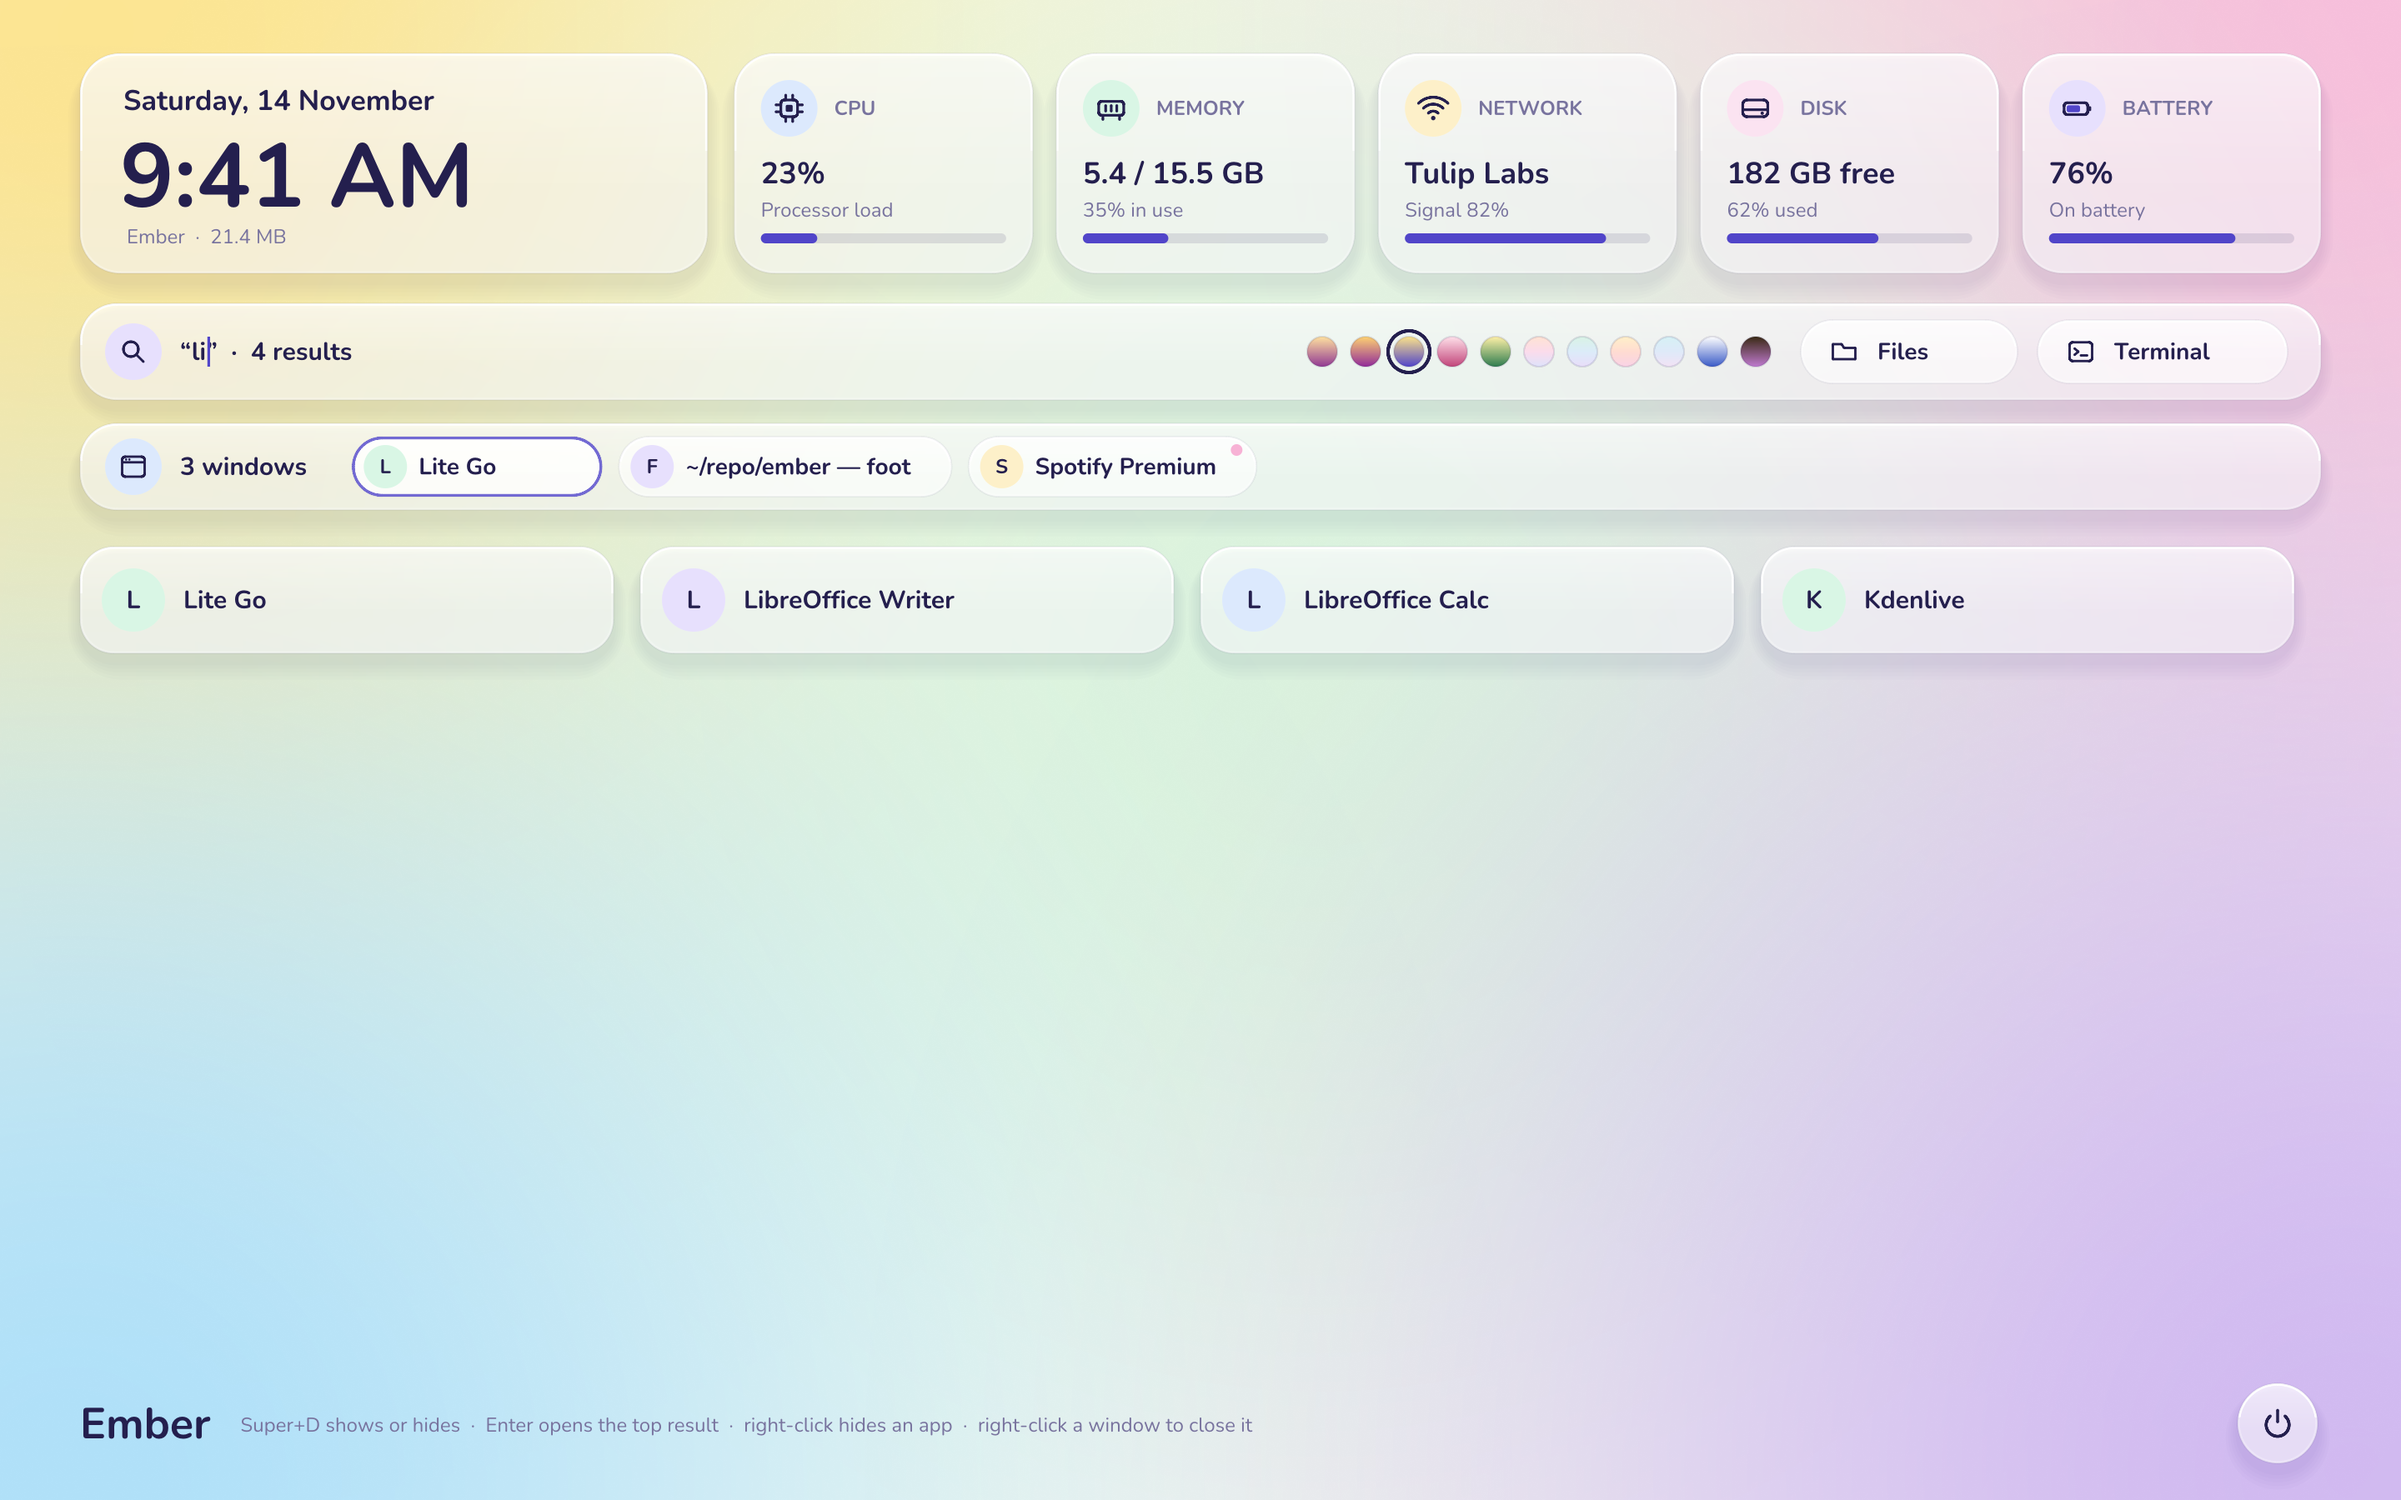
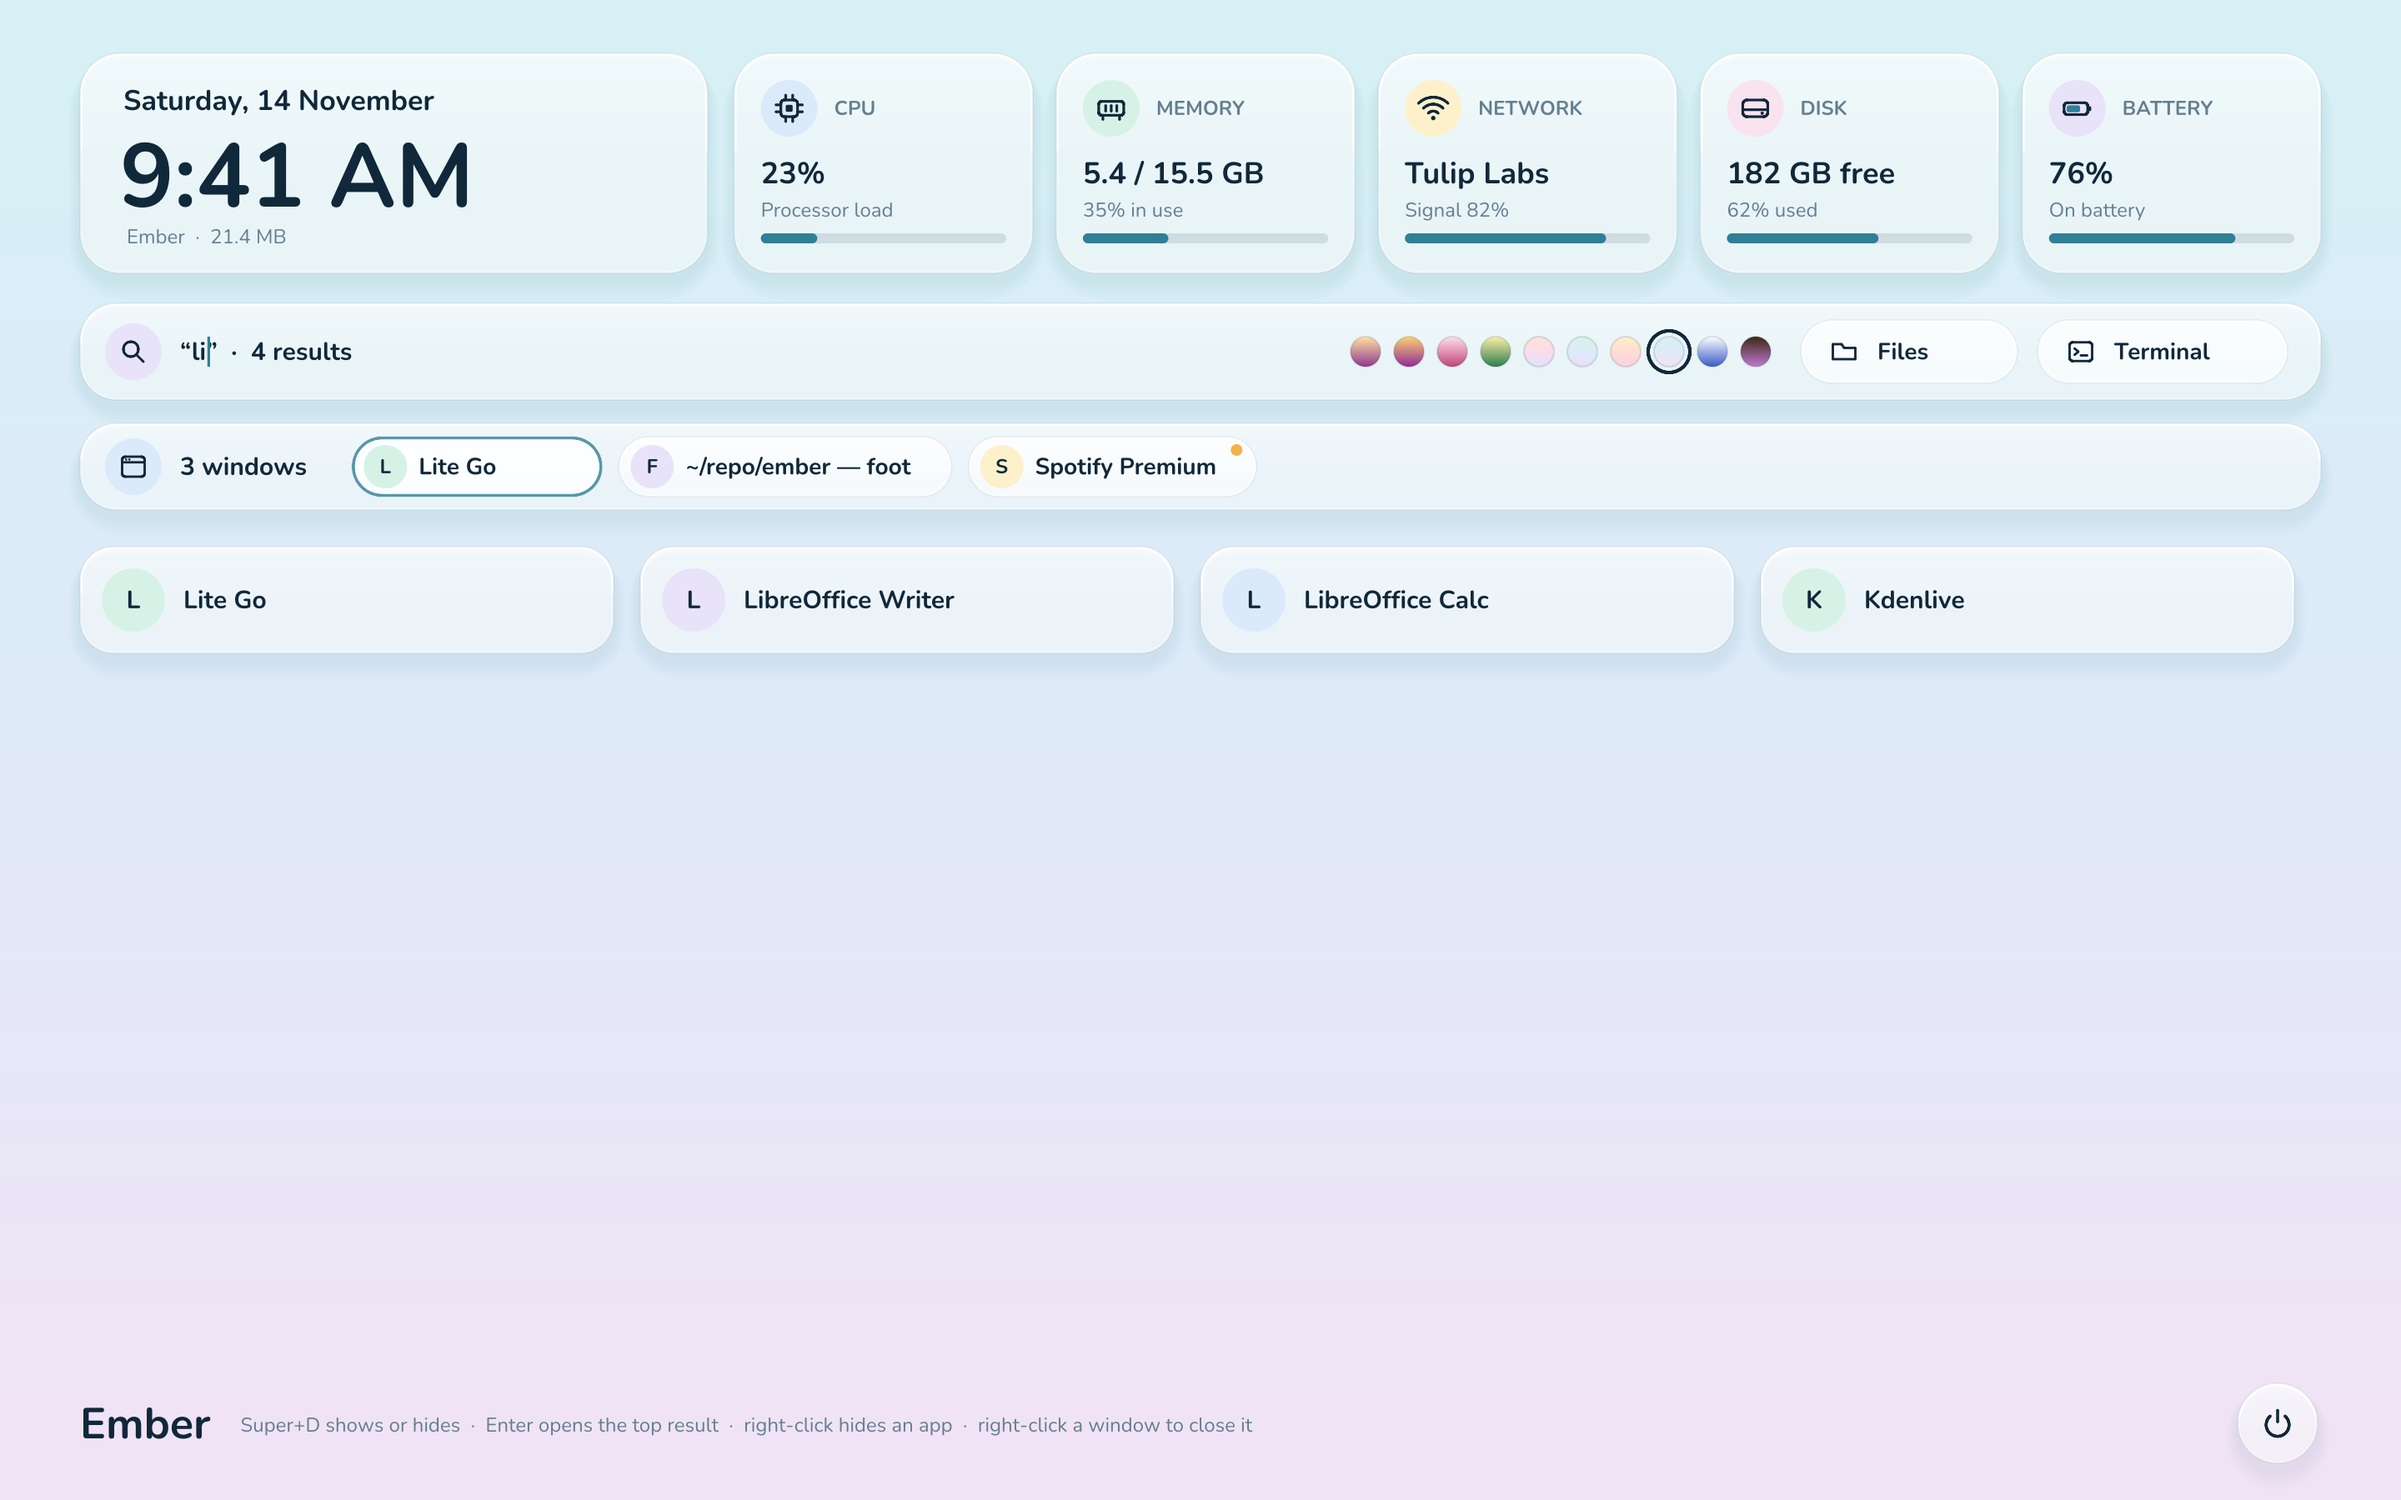
Lagoon is the default theme; Spring Mix is no longer offered
A saved Spring Mix choice falls back to Lagoon. Screenshots redrawn.

Claude-Session: https://claude.ai/code/session_01MEhVsAAkMkEJaBw27qK1mL

diff --git a/linux/shell/screen.go b/linux/shell/screen.go
@@ -74,9 +74,32 @@ type Screen struct {
 	u      ui.Ui
 }
 
-// New returns a screen in the Spring Mix palette (SetTheme picks another).
+// DefaultTheme is the palette Ember starts in.
+const DefaultTheme = "lagoon"
+
+// Themes are Lite Go's palettes that Ember offers (all but Spring Mix).
+var Themes = func() []*ui.Theme {
+	var out []*ui.Theme
+	for _, t := range ui.Themes {
+		if t.ID != "spring" {
+			out = append(out, t)
+		}
+	}
+	return out
+}()
+
+func themeByID(id string) *ui.Theme {
+	for _, t := range Themes {
+		if t.ID == id {
+			return t
+		}
+	}
+	return ui.ThemeByID(DefaultTheme)
+}
+
+// New returns a screen in the Lagoon palette (SetTheme picks another).
 func New(h Host) *Screen {
-	return &Screen{Host: h, Th: ui.ThemeByID("spring"), In: ui.NewInput(), hidden: map[string]bool{}, sel: -1}
+	return &Screen{Host: h, Th: themeByID(DefaultTheme), In: ui.NewInput(), hidden: map[string]bool{}, sel: -1}
 }
 
 // SetApps replaces the app list (after a scan) and the hidden set.
@@ -91,9 +114,7 @@ func (s *Screen) SetApps(list []apps.App, hidden []string) {
 
 // SetTheme picks one of Lite Go's palettes by id.
 func (s *Screen) SetTheme(id string) {
-	if id != "" {
-		s.Th = ui.ThemeByID(id)
-	}
+	s.Th = themeByID(id) // an unknown or old choice (Spring Mix) falls back to Lagoon
 }
 
 // Apps returns the app list.
@@ -548,10 +569,10 @@ func (s *Screen) strip(g ui.Gfx, l layout) {
 // to switch; the choice is kept) and returns where the dots start.
 func (s *Screen) themes(g ui.Gfx, l layout) float32 {
 	const d, gap = 18, 8
-	n := len(ui.Themes)
+	n := len(Themes)
 	x := l.files.X - 18 - float32(n)*(d+gap) + gap
 	cy := l.strip.CY()
-	for i, t := range ui.Themes {
+	for i, t := range Themes {
 		r := ui.RectAround(x+float32(i)*(d+gap)+d/2, cy, d, d)
 		if t.Grad != nil {
 			ui.FillGradient3(g, r, d/2, t.Grad)

diff --git a/linux/shell/screen_test.go b/linux/shell/screen_test.go
@@ -193,16 +193,23 @@ func TestWindowsRow(t *testing.T) {
 
 func TestThemes(t *testing.T) {
 	s, h := sample(t)
+	if s.Th.ID != "lagoon" {
+		t.Fatalf("default theme %s", s.Th.ID)
+	}
+	s.SetTheme("spring") // removed: falls back to Lagoon
+	if s.Th.ID != "lagoon" {
+		t.Fatalf("spring kept: %s", s.Th.ID)
+	}
 	for _, id := range []string{"peach", "night", "crocus"} {
 		s.SetTheme(id)
 		shot(t, s, 1440, 900, "ember-"+id)
 	}
 	// clicking a dot switches the palette and keeps the choice
 	l := s.layout(1440, 900)
-	n := len(ui.Themes)
+	n := len(Themes)
 	x := l.files.X - 18 - float32(n)*26 + 8
 	click(t, s, x+1*26+9, l.strip.CY(), 1440, 900)
-	if s.Th.ID != ui.Themes[1].ID || h.theme != ui.Themes[1].ID {
+	if s.Th.ID != Themes[1].ID || h.theme != Themes[1].ID {
 		t.Fatalf("theme %s, saved %q", s.Th.ID, h.theme)
 	}
 }

diff --git a/README.md b/README.md
@@ -19,7 +19,7 @@ Ember replaces the desktop you sign in to with one screen:
 - **Apps.** Every installed app as a tile. Start typing to search, press Enter to open the top result, or move with the arrow keys.
 - **Hide apps.** Right-click an app to hide it. Type `hidden` to see hidden apps; right-click one to bring it back.
 - **Open windows** (Linux). Every window niri manages, in a row. Click one to go to it, or right-click it to close it.
-- **Themes.** The palettes of Lite Go: Crocus, Tulip, Spring Mix, Sakura, Meadow, Peach Sky, Mint Lilac, Sorbet, Lagoon, Classic and Night. Click a dot in the search bar to switch; Ember keeps your choice.
+- **Themes.** The palettes of Lite Go: Lagoon (the default), Crocus, Tulip, Sakura, Meadow, Peach Sky, Mint Lilac, Sorbet, Classic and Night. Click a dot in the search bar to switch; Ember keeps your choice.
 - **Power panel.** Lock, sleep, sign out, restart, shut down, turn the screens off, exit Ember.
 
 | | |
